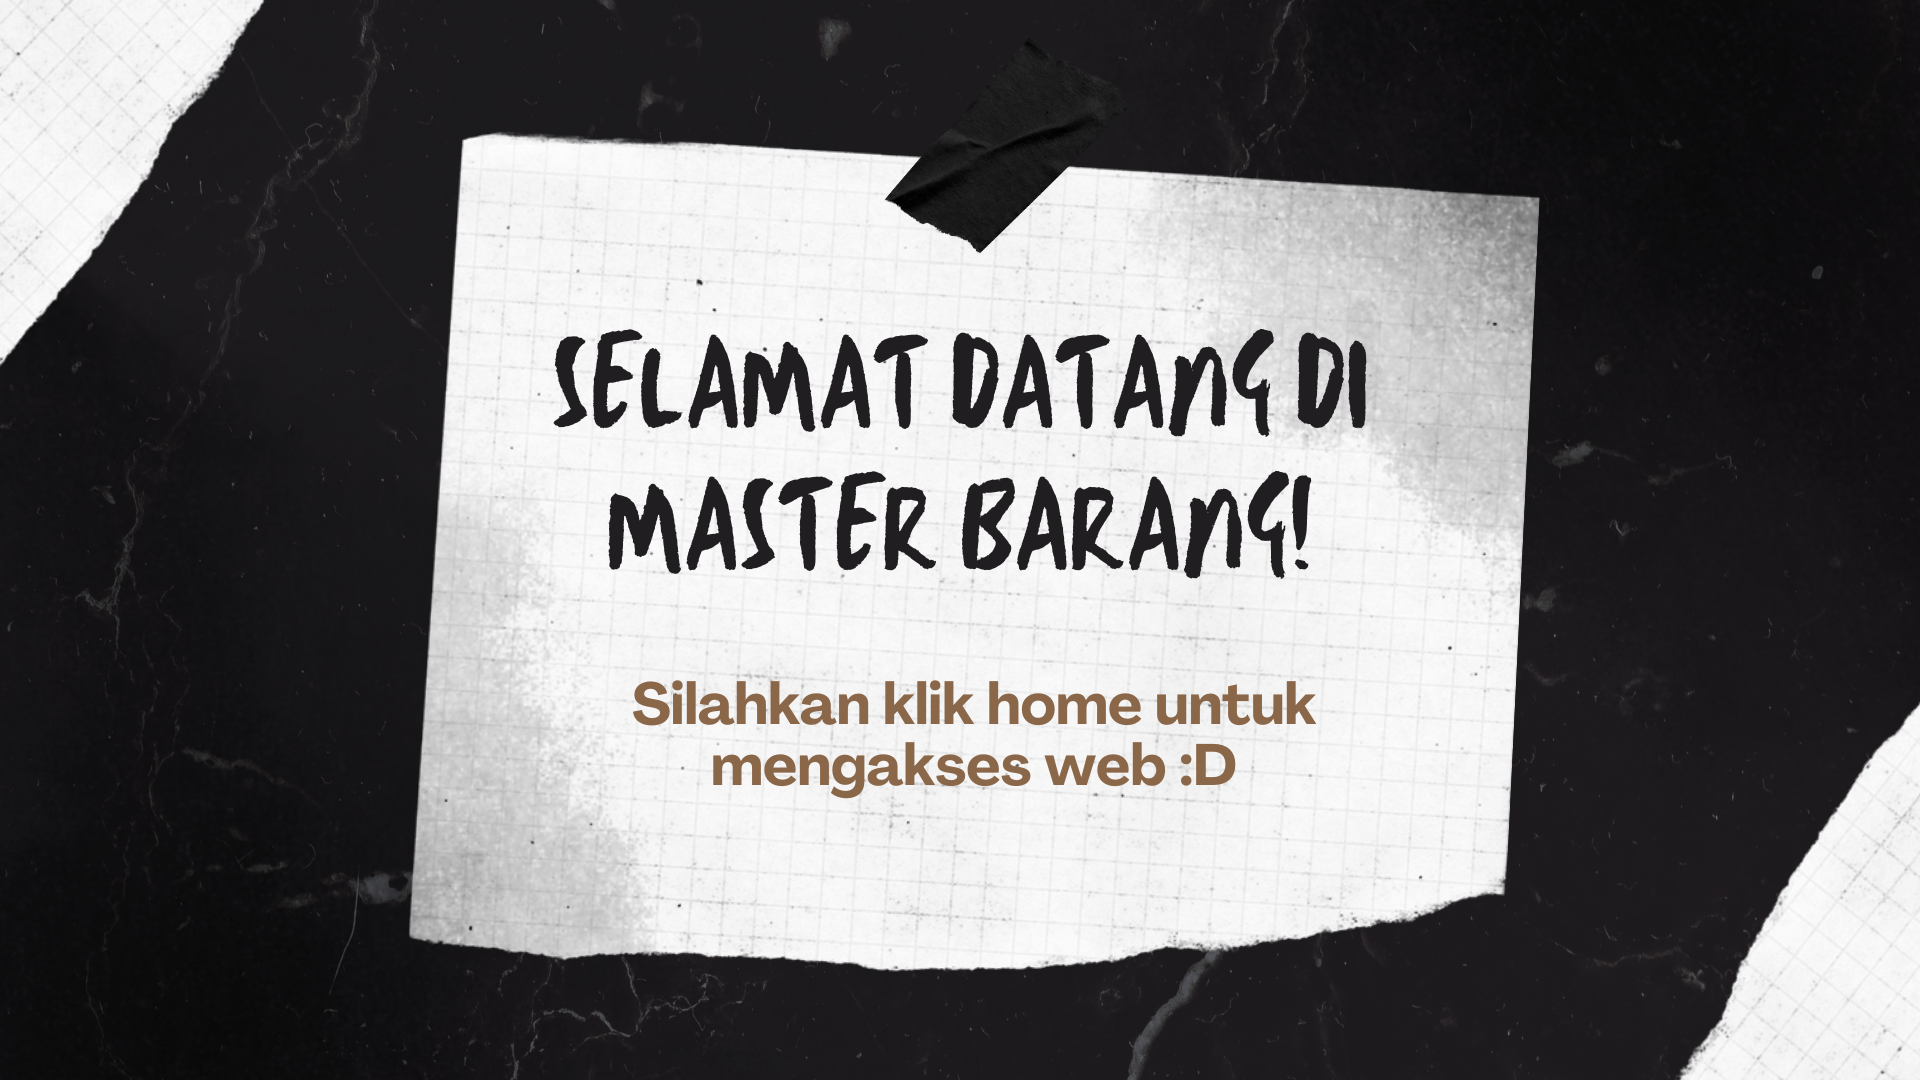
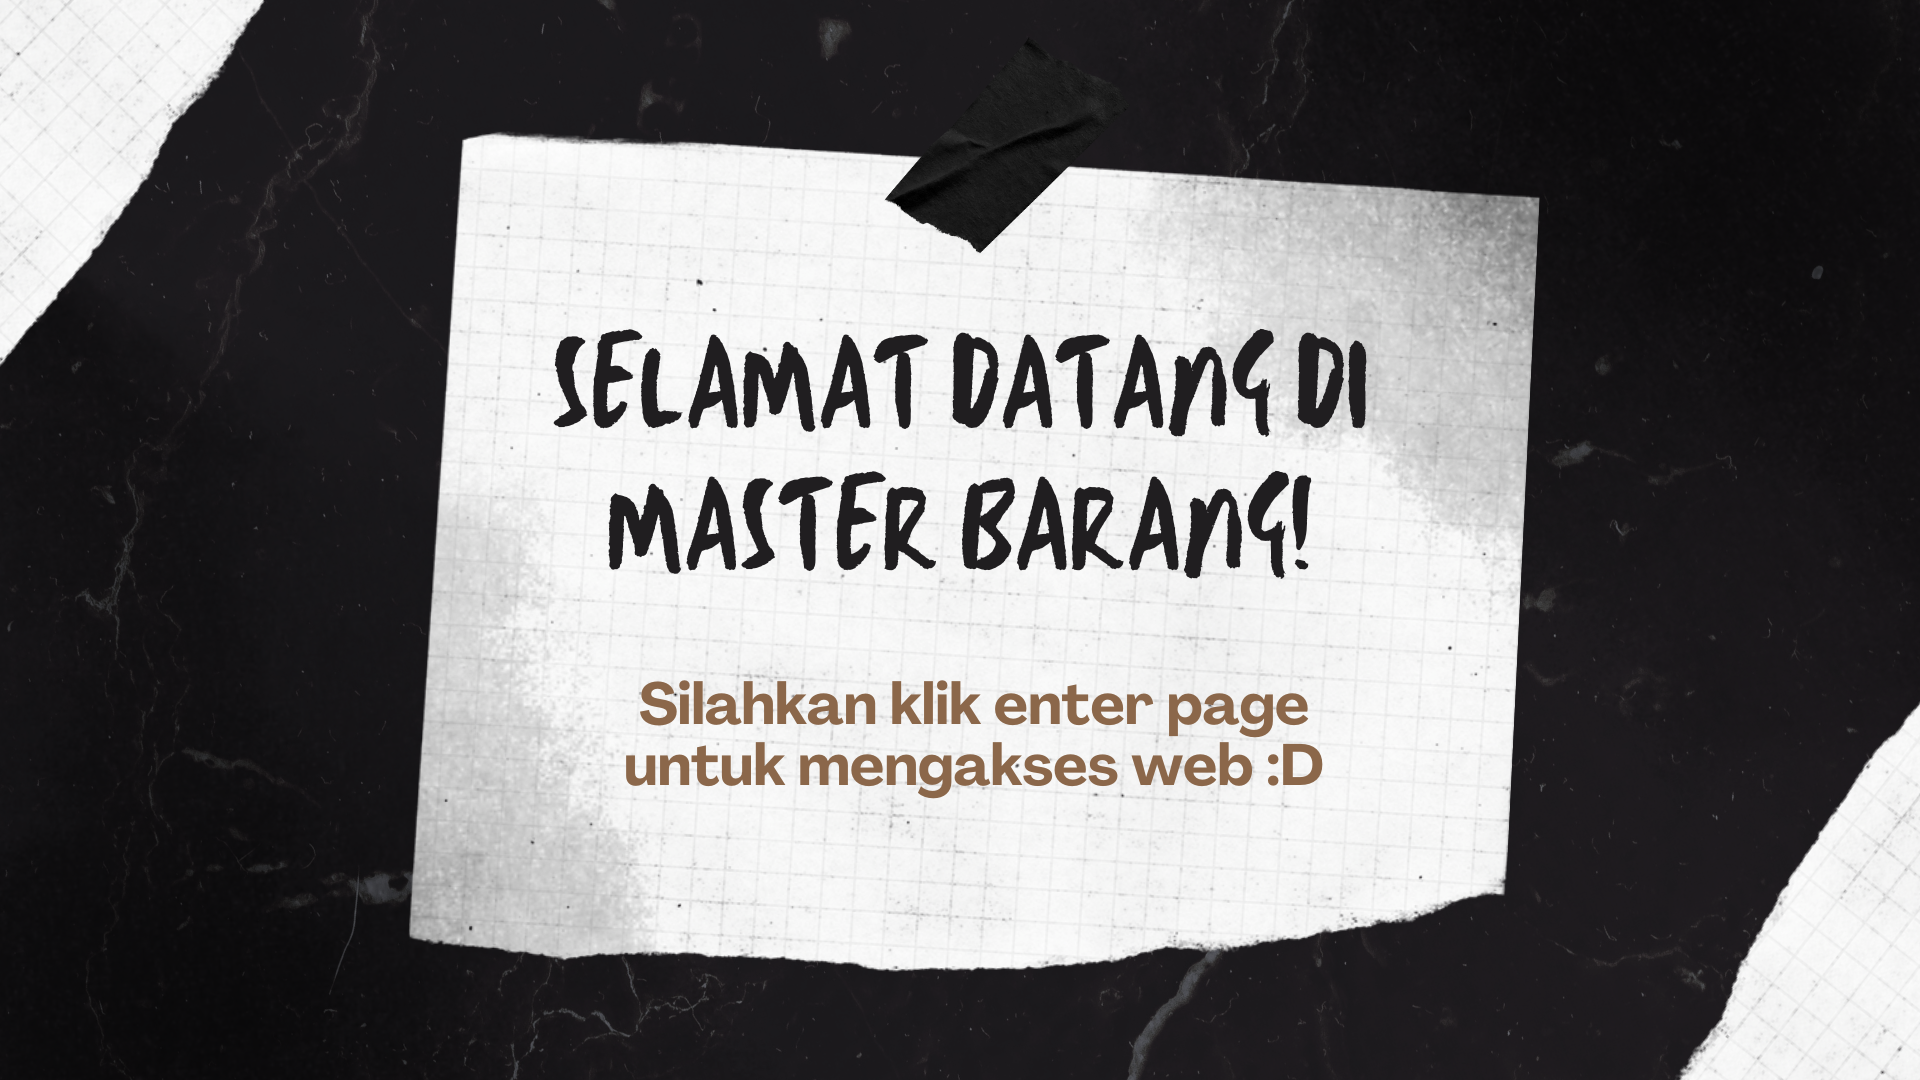
first commit

Changed region(s): [[0.3125, 0.6111, 0.6875, 0.7333]]

diff --git a/resources/views/employee/edit.employee.php b/resources/views/employee/edit.employee.php
@@ -1,0 +1,84 @@
+@extends('layouts.app')
+
+@section('content')
+    <div class="container-sm my-5">
+        <form action="{{ route('employees.update', ['employee' => $employee->id]) }}" method="POST">
+            @csrf @method('put')
+            <div class="row justify-content-center">
+                <div class="container-sm mt-5">
+                    <form action="{{ route('employees.update', ['employee' => $employee->id]) }}" method="POST">
+                        @csrf
+                        @method('put')
+                        <div class="row justify-content-center">
+                            <div class="p-5 bg-light rounded-3 col-xl-6">
+                                <div class="mb-3 text-center">
+                                    <i class="bi-person-circle fs-1"></i>
+                                    <h4>Edit Employee</h4>
+                                </div>
+                                <hr>
+                                <div class="row">
+                                    <div class="col-md-6 mb-3">
+                                        <label for="firstName" class="formlabel">First Name</label>
+                                        <input class="form-control @error('firstName') is-invalid @enderror" type="text" name="firstName" id="firstName" value="{{ $errors->any() ? old('firstName') : $employee->firstname }}" placeholder="Enter First Name">
+                                        @error('firstName')
+                                            <div class="textdanger"><small>{{ $message }}</small></div>
+                                        @enderror
+                                    </div>
+                                    <div class="col-md-6 mb-3">
+                                        <label for="lastName" class="form-label">LastName</label>
+                                        <input class="form-control @error('lastName') is-invalid @enderror" type="text" name="lastName" id="lastName" value="{{ $errors->any() ? old('lastName') : $employee->lastname }}" placeholder="Enter Last Name">
+                                        @error('lastName')
+                                            <div class="textdanger"><small>{{ $message }}</small></div>
+                                        @enderror
+                                    </div>
+                                    <div class="col-md-6 mb-3">
+                                        <label for="email" class="formlabel">Email</label>
+                                        <input class="form-control @error('email') is-invalid @enderror" type="text" name="email" id="email" value="{{ $errors->any() ? old('email') : $employee->email }}" placeholder="Enter Email">
+                                        @error('email')
+                                            <div class="textdanger"><small>{{ $message }}</small></div>
+                                        @enderror
+                                    </div>
+                                    <div class="col-md-6 mb-3">
+                                        <label for="age" class="formlabel">Age</label>
+                                        <input class="form-control @error('age') is-invalid @enderror" type="text" name="age" id="age" value="{{ $errors->any() ? old('age') : $employee->age }}" placeholder="Enter Age">
+                                        @error('age')
+                                            <div class="textdanger"><small>{{ $message }}</small></div>
+                                        @enderror
+                                    </div>
+                                    <div class="col-md-12 mb-3">
+                                        <label for="position" class="formlabel">Position</label>
+                                        <select name="position" id="position" class="form-select">
+                                            @php
+                                                $selected = "";
+                                                if ($errors->any())
+                                                    $selected = old('position');
+                                                else
+                                                    $selected = $employee->position_id;
+                                            @endphp
+                                            @foreach ($positions as $position)
+                                                <option value="{{ $position->id }}" {{ $selected == $position->id ? 'selected' : '' }}>{{ $position->code.'-'.$position->name }}</option>
+                                            @endforeach
+                                        </select>
+                                        @error('position')
+                                            <div class="textdanger"><small>{{ $message }}</small></div>
+                                        @enderror
+                                    </div>
+                                </div>
+                                <hr>
+                                <div class="row">
+                                    <div class="col-md-6 d-grid">
+                                        <a href="{{ route('employees.index') }}" class="btn btn-outline-dark btn-lg mt-3"><i class="bi-arrow-left-circle me-2"></i> Cancel</a>
+                                    </div>
+                                    <div class="col-md-6 d-grid">
+                                        <button type="submit" class="btn btn-dark btn-lg mt-3"><i class="bi-check-circle me-2"></i> Edit</button>
+                                    </div>
+                                </div>
+                            </div>
+                        </div>
+                    </form>
+                </div>
+
+            </div>
+        </form>
+    </div>
+@endsection

diff --git a/resources/views/profile.blade.php b/resources/views/profile.blade.php
@@ -12,7 +12,7 @@ scale=1.0">
     <nav class="navbar navbar-expand-md navbar-dark bg-dark">
         <div class="container">
             <a href="{{ route('home') }}" class="navbar-brand mb-0 h1"><i
-class="bi-hexagon-fill me-2"></i> Data Master</a>
+class="bi bi-box-seam-fill me-2"></i>Master Barang</a>
 
             <button type="button" class="navbar-toggler" data-bs
 toggle="collapse" data-bs-target="#navbarSupportedContent">
@@ -43,8 +43,44 @@ Profile</a>
         <hr>
         <div class="d-flex align-items-center py-2 px-4 bg-light rounded
 3 border">
-            <div class="bi-person-circle me-3 fs-1"></div>
-            <h4 class="mb-0">Well done! this is {{ $pageTitle }}.</h4>
+            <div class="bi bi-person-bounding-box me-3 fs-1"></div>
+            <h4 class="mb-0">Name: Shofiyah Labibah</h4>
+</div>
+
+<div class="d-flex align-items-center py-2 px-4 bg-light rounded
+3 border">
+            <div class="bi bi-list-columns me-3 fs-1"></div>
+            <h4 class="mb-0">NIM: 1204220097</h4>
+</div>
+
+<div class="d-flex align-items-center py-2 px-4 bg-light rounded
+3 border">
+            <div class="bi bi-book me-3 fs-1"></div>
+            <h4 class="mb-0">Original Class: IS-05-03</h4>
+</div>
+
+<div class="d-flex align-items-center py-2 px-4 bg-light rounded
+3 border">
+            <div class="bi bi-calendar-date-fill me-3 fs-1"></div>
+            <h4 class="mb-0">Tahun Masuk: 2022</h4>
+</div>
+
+<div class="d-flex align-items-center py-2 px-4 bg-light rounded
+3 border">
+            <div class="bi-person me-3 fs-1"></div>
+            <h4 class="mb-0">Jenis Kelamin: Perempuan</h4>
+</div>
+
+<div class="d-flex align-items-center py-2 px-4 bg-light rounded
+3 border">
+            <div class="bi bi-building-fill me-3 fs-1"></div>
+            <h4 class="mb-0">Jurusan: Sistem Informasi</h4>
+</div>
+
+<div class="d-flex align-items-center py-2 px-4 bg-light rounded
+3 border">
+            <div class="bi bi-bank me-3 fs-1"></div>
+            <h4 class="mb-0">Fakultas: Rekayasa Industri</h4>
 </div>
 </div>
 @vite('resources/js/app.js')

diff --git a/app/Http/Controllers/EmployeeController.php b/app/Http/Controllers/EmployeeController.php
@@ -5,12 +5,13 @@ namespace App\Http\Controllers;
 use Illuminate\Http\Request;
 use App\Models\Employee; // Import model Employee
 use Illuminate\Support\Facades\Validator;
+use Illuminate\Support\Facades\DB;
 
 class EmployeeController extends Controller
 {
     public function index()
     {
-        $pageTitle = 'Employee List';
+        $pageTitle = 'Item List';
         // $employees = Employee::all(); // Mengambil semua data employee dari database
 
         return view('employee.index', ['pageTitle' => $pageTitle,
@@ -20,7 +21,7 @@ class EmployeeController extends Controller
 
     public function create()
     {
-        $pageTitle = 'Create Employee';
+        $pageTitle = 'Input Item';
 
         return view('employee.create', compact('pageTitle'));
     }
@@ -55,4 +56,18 @@ class EmployeeController extends Controller
         // Redirect ke halaman employee list
         return redirect()->route('employees.index')->with('success', 'Employee data has been saved successfully.');
     }
+
+    public function edit(string $id)
+    {
+        $pageTitle = 'Edit Employee';
+
+        $employee = DB::table('employees')
+            ->where('id', $id)
+            ->first();
+
+        $positions = DB::table('positions')->get();
+
+        return view('employee.edit', compact('pageTitle', 'employee', 'positions'));
+    }
+
 }

diff --git a/resources/views/layouts/nav.blade.php b/resources/views/layouts/nav.blade.php
@@ -1,0 +1,28 @@
+<nav class="navbar navbar-expand-md navbar-dark bg-dark">
+    <div class="container">
+        <a href="{{ route('home') }}" class="navbar-brand mb-0 h1"><i
+class="bi-hexagon-fill me-2"></i>Master Barang</a>
+
+        <button type="button" class="navbar-toggler" data-bs
+toggle="collapse" data-bs-target="#navbarSupportedContent">
+            <span class="navbar-toggler-icon"></span>
+        </button>
+
+        <div class="collapse navbar-collapse"
+id="navbarSupportedContent">
+            <hr class="d-lg-none text-white-50">
+
+            <ul class="navbar-nav flex-row flex-wrap">
+                <li class="nav-item col-2 col-md-auto"><a href="{{
+route('home') }}" class="nav-link active">Home</a></li>
+                <li class="nav-item col-2 col-md-auto"><a href="{{
+route('employees.index') }}" class="nav-link">Items</a></li>
+            </ul>
+
+            <hr class="d-lg-none text-white-50">
+
+            <a href="{{ route('profile') }}" class="btn btn-dark my-2 ms-md-auto"><i class="bi-person-circle me-1"></i> My
+Profile</a>
+        </div>
+    </div>
+</nav>

diff --git a/resources/views/employee/index.blade.php b/resources/views/employee/index.blade.php
@@ -12,7 +12,7 @@ scale=1.0">
     <nav class="navbar navbar-expand-md navbar-dark bg-dark">
         <div class="container">
             <a href="{{ route('home') }}" class="navbar-brand mb-0 h1"><i
-class="bi-hexagon-fill me-2"></i> Data Master</a>
+class="bi bi-box-seam-fill me-2"></i>Master Barang</a>
 
             <button type="button" class="navbar-toggler" data-bs
 toggle="collapse" data-bs-target="#navbarSupportedContent">

diff --git a/resources/views/employee/create.blade.php b/resources/views/employee/create.blade.php
@@ -11,7 +11,7 @@
     <nav class="navbar navbar-expand-md navbar-dark bg-dark">
         <div class="container">
             <a href="{{ route('home') }}" class="navbar-brand mb-0 h1"><i
-class="bi-hexagon-fill me-2"></i> Data Master</a>
+class="bi bi-box-seam-fill me-2"></i>Master Barang</a>
 
             <button type="button" class="navbar-toggler" data-bs
 toggle="collapse" data-bs-target="#navbarSupportedContent">

diff --git a/resources/views/welcome.blade.php b/resources/views/welcome.blade.php
@@ -18,7 +18,7 @@ Vite::asset('resources/images/laravel.png') }}" alt="image">
 
         <div class="col-md-2 offset-md-5 mt-4">
             <div class="d-grid gap-2">
-                <a href="{{route('home')}}" class="btn btn-dark" href="">Home</a>
+                <a href="{{route('profile')}}" class="btn btn-dark" href="">Enter Page</a>
 </div>
 </div>
 </div>
